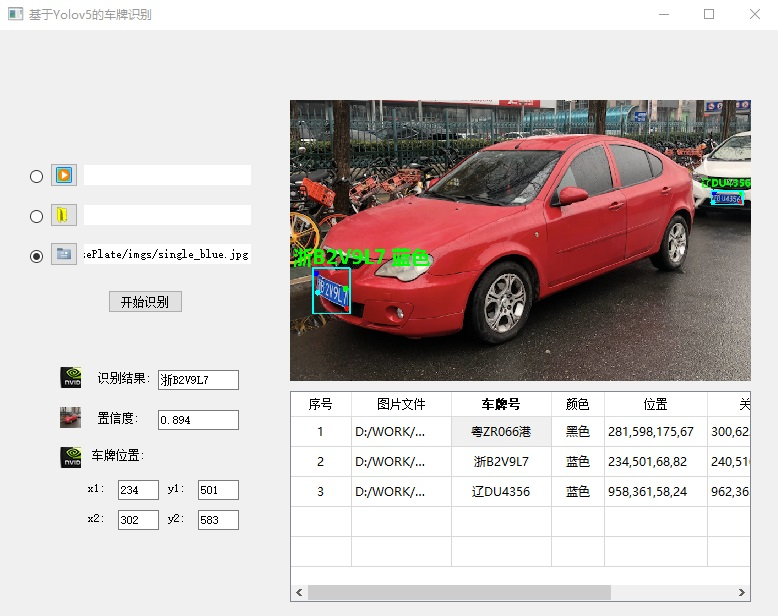
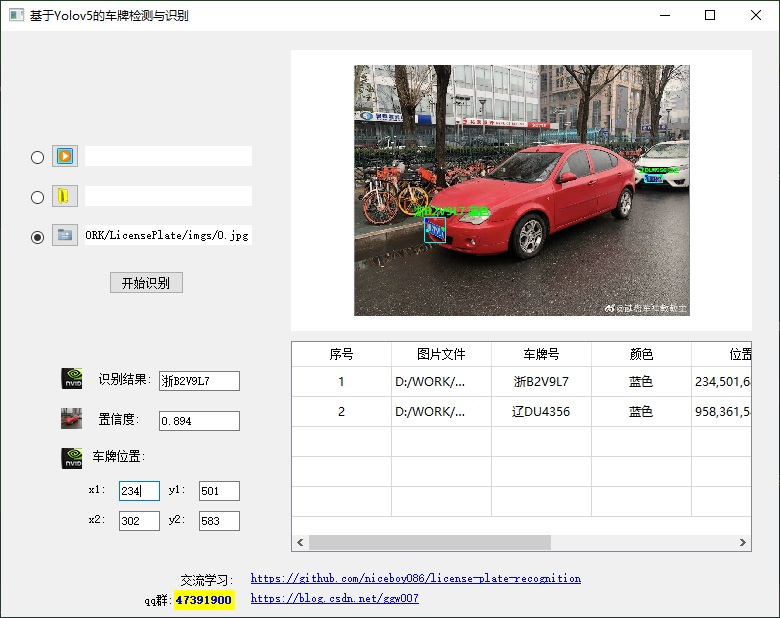
Add files via upload

diff --git a/MainApp_video.py b/MainApp_video.py
@@ -1,7 +1,7 @@
 from PyQt5.QtWidgets import QApplication, QMainWindow, QFileDialog, QTableWidgetItem
 #from PyQt5.QtGui import *
-from PyQt5.QtGui import QPixmap
-from PyQt5.QtCore import pyqtSlot, Qt, QThread, pyqtSignal
+from PyQt5.QtGui import QPixmap, QPalette
+from PyQt5.QtCore import pyqtSlot, Qt, QThread, pyqtSignal, QEvent
 from UI.ui_LicensePlate import Ui_MainWindow
 import pyqtgraph
 import numpy as np
@@ -36,6 +36,19 @@ class MainWindow(Ui_MainWindow, QMainWindow):
         self.rbtnstate = 0
         self.thrdtest = WorkerThread(self)
         self.vwthread = None
+        self.label_11.setText('<a href="https://github.com/niceboy086/license-plate-recognition">https://github.com/niceboy086/license-plate-recognition</a>')
+        self.label_13.setText('<a href="https://blog.csdn.net/ggw007">https://blog.csdn.net/ggw007</a>')
+        self.label_11.setOpenExternalLinks(True)
+        self.label_13.setOpenExternalLinks(True)
+        self.label_11.installEventFilter(self)
+        self.label_13.installEventFilter(self)
+        self.labelcolor = self.label_11.palette().color(QPalette.Window)
+        self.label_14.setText('47391900')
+        self.label_14.setStyleSheet("background-color: yellow;color: blue;font: bold;" )
+        #self.label_14.setTextInteractionFlags(Qt.TextSelectableByMouse)
+        self.label_14.installEventFilter(self)
+        self.label_14.setToolTip('单击QQ号复制到剪贴板!')
+
         self.tableWidget.verticalHeader().setVisible(False)
         self.tableWidget.horizontalHeader().setStyleSheet(
             "border-bottom-width: 0.5px;border-style: outset;border-color: rgb(220,220,220);")
@@ -60,6 +73,64 @@ class MainWindow(Ui_MainWindow, QMainWindow):
         self.radioButton.toggled.connect(lambda: self.btnstate(self.radioButton))
         self.thrdtest.signUi.connect(self.acceptthreadsignal)
         self.thrdtest.finished.connect(self.threadfinished)
+
+    def eventFilter(self, obj, event):
+        if obj == self.label_11:
+            if event.type() == QEvent.Enter:
+                print("label_11 mouse enter")
+                self.label_11.setStyleSheet("background-color: yellow; ")
+                return True  # 说明这个事件已被处理，其他控件别插手
+            elif event.type() == QEvent.Leave:
+                print("label_11 mouse leave")
+                font = self.label_11.font()
+                font.setBold(False)
+                self.label_11.setFont(font)
+                self.label_11.setStyleSheet("background-color: {self.labelcolor}; ")
+                return True  # 说明这个事件已被处理，其他控件别插手
+            elif event.type() == QEvent.MouseButtonPress:
+                print("label_11 mouse MouseButtonPress")
+                font = self.label_11.font()
+                font.setBold(True)
+                self.label_11.setFont(font)
+                return True  # 说明这个事件已被处理，其他控件别插手
+            elif event.type() == QEvent.MouseButtonRelease:
+                print("label_11 mouse MouseButtonRelease")
+                font = self.label_11.font()
+                font.setBold(False)
+                self.label_11.setFont(font)
+                #return True  # 说明这个事件已被处理，其他控件别插手
+        elif obj == self.label_13:
+            if event.type() == QEvent.Enter:
+                print("label_13 mouse enter")
+                self.label_13.setStyleSheet("background-color: yellow; ")
+                return True  # 说明这个事件已被处理，其他控件别插手
+            elif event.type() == QEvent.Leave:
+                print("label_13 mouse leave")
+                font = self.label_13.font()
+                font.setBold(False)
+                self.label_13.setFont(font)
+                self.label_13.setStyleSheet("background-color: {self.labelcolor}; ")
+                return True  # 说明这个事件已被处理，其他控件别插手
+            elif event.type() == QEvent.MouseButtonPress:
+                print("label_13 mouse MouseButtonPress")
+                font = self.label_13.font()
+                font.setBold(True)
+                self.label_13.setFont(font)
+                return True  # 说明这个事件已被处理，其他控件别插手
+            elif event.type() == QEvent.MouseButtonRelease:
+                print("label_13 mouse MouseButtonRelease")
+                font = self.label_13.font()
+                font.setBold(False)
+                self.label_13.setFont(font)
+                #return True  # 说明这个事件已被处理，其他控件别插手
+        elif obj == self.label_14:
+            if event.type() == QEvent.MouseButtonRelease:
+                print("label_14 mouse MouseButtonRelease")
+                clipboard = QApplication.clipboard()
+                clipboard.setText(self.label_14.text())
+                #return True  # 说明这个事件已被处理，其他控件别插手
+
+        return QMainWindow.eventFilter(self, obj, event)  # 交由其他控件处理
 
     def recFromPic(self, filename):
         #print("*debug, xxx*, RecFromPic:", filename)
